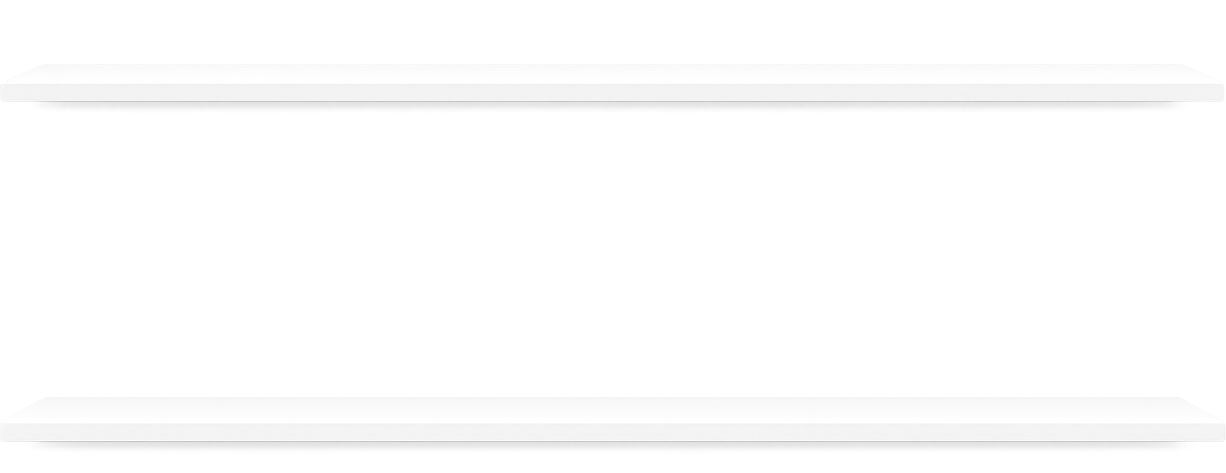
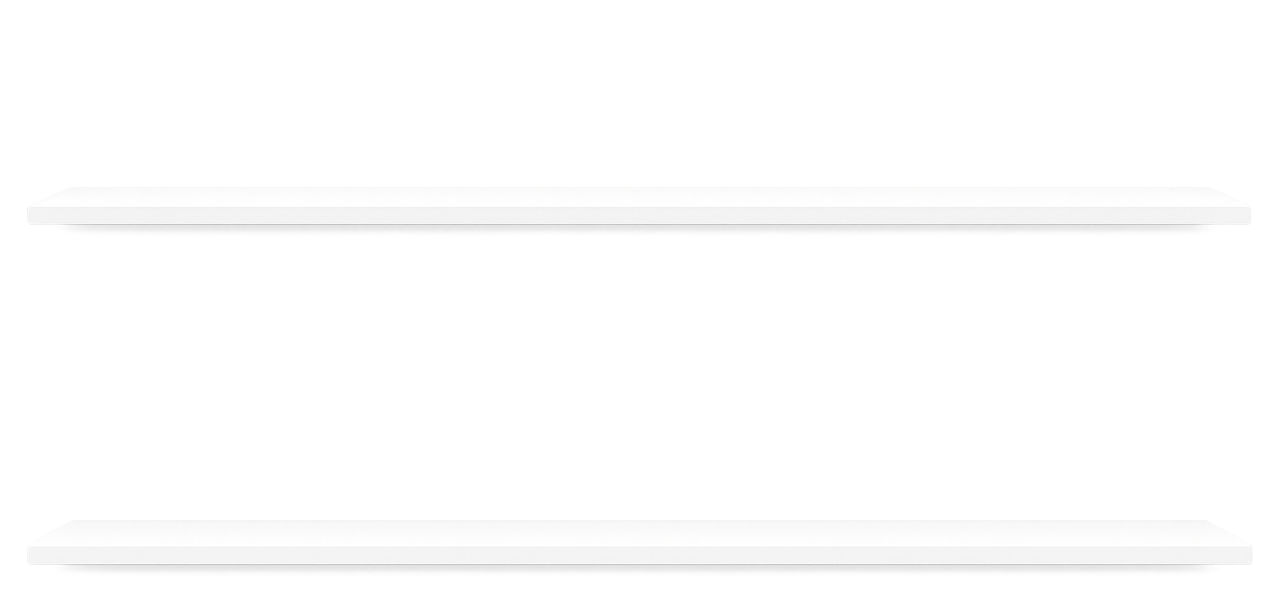
study 진행중

Changed region(s): [[0.062, 0.9471, 0.9299, 0.9767], [0.062, 0.3552, 0.9299, 0.3848], [0.062, 0.2072, 0.9299, 0.2368]]

diff --git a/html/inc/css/common.css b/html/inc/css/common.css
@@ -356,13 +356,19 @@ table col[data-device="pc"]{display:table-column !important;}
 .sel_lv_list{display:flex;align-items:center;justify-content:center;flex-wrap:wrap;gap:30px;}
 .sel_lv_list .btn_lv{padding:10px 30px 20px 30px;border-radius:20px;color:#fff;font-weight:700;font-size:20px;background:#bcbcbc;text-shadow:2px 2px 4px rgba(0, 0, 0, 0.15),0px 0px 1px rgba(255, 255, 255, 0.1);box-shadow:inset 0 -10px 0 #8c8c8c}
 .sel_lv_list .btn_lv.active{background:#ffcd50;box-shadow:inset 0 -10px 0 #f3b10a}
-.book_list{display:flex;flex-wrap:wrap;padding-top:130px;gap:50px 4%;}
+.book_list{display:flex;flex-wrap:wrap;padding:130px 100px 0;gap:7.8vw 4%;}
 .book_list{background-image: url('../../images/study/bg_bookshelf.png');
     background-size: contain;
     background-repeat: no-repeat;
-    text-align: center;background-position:0 200%}
+    text-align: center;background-position:50% 100%}
+
 .book_list li{flex:0 0 calc(16.666% - 5.9%);}
-.book_list .book_num{display:inline-block;padding:8px 20px;background:#4b4b4b;color:#fff;border-radius:0 0 10px 10px}
+.book_list li a{display:block;}
+.book_list.lv li{flex:0 0 calc(25% - 8.2%);}
+.book_list.lv li a{text-align:left;}
+.book_list .sub_num{display:inline-block;margin-bottom:8px;padding:3px 10px;background:#e7e7e7;color:#555;border-radius:30px}
+.book_list .book_lv{display:flex;gap:18px}
+.book_list .book_num{display:inline-block;margin-top:10px;padding:8px 20px;background:#4b4b4b;color:#fff;border-radius:0 0 10px 10px;font-size:15px}
 
 
 .study.ko .study_header h1{background:url('../../images/study/ico_tit_ko.png') no-repeat 0 50% / 38px auto}
@@ -372,17 +378,17 @@ table col[data-device="pc"]{display:table-column !important;}
 .study.cn .sel_lv_list .btn_lv.active{background:#6dc3f7;box-shadow:inset 0 -10px 0 #4ea9e0}
 
 .study_wrap .top{display:flex;gap:40px;}
-        .study_wrap .info_wrap{width:610px;flex:1;padding:40px 35px 20px 35px;flex-shrink:0;border:1px solid #cbcbcb;background:#fff;}
-        .study_wrap .info_wrap .title{display:block;color:#dc2c2c;font-size:40px;font-weight:300}
-        .study_wrap .info_wrap .desc{padding-bottom:30px;margin-top:auto;font-size:15px;line-height:1.4;}
+.study_wrap .info_wrap{width:610px;flex:1;padding:40px 35px 20px 35px;flex-shrink:0;border:1px solid #cbcbcb;background:#fff;}
+.study_wrap .info_wrap .title{display:block;padding-top:30px;margin-top:-15px;color:#dc2c2c;font-size:40px;font-weight:300;background:url('../../images/img_btn_sparkle.png') no-repeat 0 0}
+.study_wrap .info_wrap .desc{padding-bottom:30px;margin-top:auto;font-size:15px;line-height:1.4;}
 
-        .study_wrap .thumb_box{display:flex;gap:25px;}
-        .study_wrap .thumb_box  > div{display:flex;flex-direction: column;}
-        .study_wrap .thumb_box .thumb .txt_box{margin-top:10px;text-align:center}
-        .study_wrap .thumb_box .thumb .txt_box p{display:inline-block;padding:2px 5px;color:#fff;font-size:13px;font-weight:500;background:#333;}
+.study_wrap .thumb_box{display:flex;gap:25px;}
+.study_wrap .thumb_box  > div{display:flex;flex-direction: column;}
+.study_wrap .thumb_box .thumb .txt_box{margin-top:10px;text-align:center}
+.study_wrap .thumb_box .thumb .txt_box p{display:inline-block;padding:2px 5px;color:#fff;font-size:13px;font-weight:500;background:#333;}
 
-        .study_wrap .info_wrap .btn_box{display:flex;gap:20px;padding-top:10px;justify-content:flex-end}
-        .study_wrap .btn_box a{
+.study_wrap .info_wrap .btn_box{display:flex;gap:20px;padding-top:10px;justify-content:flex-end}
+.study_wrap .btn_box a{
         display: inline-block;
   padding: 10px 20px;
   background-color: #b3b3b3;  /* 회색 배경 */
@@ -475,6 +481,8 @@ table col[data-device="pc"]{display:table-column !important;}
   .study_header h1{font-size:30px;}
   .study_header nav ul{gap:20px}
   .study_header nav a{font-size:20px}
+
+  .book_list{padding:120px 0 0}
 
 }
 
@@ -690,14 +698,19 @@ table col[data-device="pc"]{display:table-column !important;}
   .sel_lv_list{gap:20px 15px;}
   .sel_lv_list .btn_lv{padding:5px 15px 10px 15px;border-radius:12px;font-size:11px;text-shadow:2px 2px 4px rgba(0, 0, 0, 0.15), 0px 0px 1px rgba(255, 255, 255, 0.1);box-shadow:inset 0 -5px 0 #8c8c8c}
   .sel_lv_list .btn_lv.active{box-shadow:inset 0 -5px 0 #f3b10a}
-  .book_list{padding-top:40px;gap:24px;}
-  .book_list{background-image: url('../../images/study/bg_bookshelf.png');
+  
+  .book_list{padding:40px 0 0 0;gap:2vw 24px;}
+  .book_list{background-image: url('../../images/study/bg_bookshelf_m.png');
       background-size: contain;
-      background-repeat: no-repeat;
-      text-align: center;background-position:0 200%}
+      background-repeat: repeat-y;
+      text-align: center;background-position:left 50% bottom 25px}
   .book_list li{flex: 0 0 calc(33.333% - 16px);}
-  .book_list .book_num{padding:4px 10px;font-size:12px;border-radius:0 0 5px 5px}
 
+  
+  .book_list.lv li{flex:0 0 calc(50% - 12px);}
+  .book_list .sub_num{margin-bottom:5px;padding:2px 5px;font-size:10px}
+  .book_list .book_lv{gap:5px}
+  .book_list .book_num{padding:4px 10px;border-radius:0 0 5px 5px;font-size:12px}
 
 
   .study_header .inner{position:relative;height:50px;margin-top:0;}
@@ -723,7 +736,7 @@ table col[data-device="pc"]{display:table-column !important;}
     .study_activity #container{padding:50px 0}
     .study_wrap .top{flex-direction:column;gap:20px}    
     .study_wrap .info_wrap{width:100%}
-    .study_wrap .info_wrap .title{font-size:12px}
+    .study_wrap .info_wrap .title{padding-top:20px;margin-top:-10px;font-size:14px;background-size:30px auto}
     .study_wrap .info_wrap .desc{padding-bottom:20px;font-size:10px;}
     .study_wrap .info_wrap .btn_box{gap:10px;padding-top:5px;}
     .study_wrap .thumb_box{gap:15px}

diff --git a/html/book_list.html b/html/book_list.html
@@ -53,12 +53,23 @@
                     <li><a href="#" class="btn_lv">Level 3</a></li>
                 </ul>
                 <ul id="bookList" class="book_list">
-                    <li>
+                    <!--<li>
                         <a href="#">
                             <img src="http://manager.chatterboxkids.net/pages/upload/PreK5.png" class="book">
-                            <p class="book_num">5</p>
                         </a>
+                        <p class="book_num">5</p>
                     </li>
+                    <li>
+                        <div class="book_lv">
+                            <a href="#">
+                                <img src="http://manager.chatterboxkids.net/pages/upload/PreK5.png" class="book" />
+                            </a>
+                            <a href="#">
+                                <img src="http://manager.chatterboxkids.net/pages/upload/PreK5.png" class="book" />
+                            </a>
+                        </div>
+                        <p class="book_num">Book 1</p>
+                    </li>-->
                 </ul>
             </div>
         </div>
@@ -67,23 +78,45 @@
 </div>
 <!--// wrap -->
 <script>
-const bookList = document.getElementById('bookList');
 
-for (let i = 1; i <= 10; i++) {
-    const li = document.createElement('li');
-    li.innerHTML = `
-        <a href="#">
-            <img src="http://manager.chatterboxkids.net/pages/upload/PreK5.png" class="book" />
-            <p class="book_num">${i}</p>
-        </a>
-    `;
-    bookList.appendChild(li);
-}
 
 document.addEventListener('DOMContentLoaded', function() {
     // URL 파라미터 가져오기
     const urlParams = new URLSearchParams(window.location.search);
     const currentType = urlParams.get('lang');
+
+    const bookList = document.getElementById('bookList');
+    if(currentType == '2'){
+        bookList.classList.add('lv');
+        for (let i = 1; i <= 10; i++) {
+            const li = document.createElement('li');
+            li.innerHTML = `
+                <div class="book_lv">
+                    <a href="#">
+                        <span class="sub_num">${i}-1</span>
+                        <img src="http://manager.chatterboxkids.net/pages/upload/PreK5.png" class="book" />
+                    </a>
+                    <a href="#">
+                        <span class="sub_num">${i}-2</span>
+                        <img src="http://manager.chatterboxkids.net/pages/upload/PreK5.png" class="book" />
+                    </a>
+                </div>
+                <p class="book_num">Book ${i}</p>
+            `;
+            bookList.appendChild(li);
+        }
+    }else{  
+        for (let i = 1; i <= 10; i++) {
+            const li = document.createElement('li');
+            li.innerHTML = `<a href="#">
+                    <img src="http://manager.chatterboxkids.net/pages/upload/PreK5.png" class="book">
+                </a>
+                <p class="book_num">${i}</p>
+            `;
+            bookList.appendChild(li);
+        }
+
+    }
 
     // 모든 메뉴 링크에서 active 클래스 제거
     document.querySelectorAll('nav a').forEach(link => {

diff --git a/html/study.html b/html/study.html
@@ -60,12 +60,12 @@
                                 <li><a href="#" class="btn_activicy active">챈트 1</a></li>
                                 <li><a href="#" class="btn_activicy">챈트 1</a></li>
                                 <li><a href="#" class="btn_activicy">챈트 1</a></li>
-                                <li><a href="#" class="btn_activicy">챈트 1</a></li>
-                                <li><a href="#" class="btn_activicy">챈트 1</a></li>
-                                <li><a href="#" class="btn_activicy">챈트 1</a></li>
-                                <li><a href="#" class="btn_activicy">챈트 1</a></li>
-                                <li><a href="#" class="btn_activicy">챈트 1</a></li>
-                                <li><a href="#" class="btn_activicy">챈트 1</a></li>
+                                <li><a href="#" class="btn_activicy">파닉스</a></li>
+                                <li><a href="#" class="btn_activicy">노래 1</a></li>
+                                <li><a href="#" class="btn_activicy">노래 2</a></li>
+                                <li><a href="#" class="btn_activicy">노래 3</a></li>
+                                <li><a href="#" class="btn_activicy">노래 4</a></li>
+                                <li><a href="#" class="btn_activicy">노래 5</a></li>
                             </ul>
                         </div>
                     </div>

diff --git a/html/worklist.html b/html/worklist.html
@@ -156,15 +156,15 @@
                         <tr>
                             <td></td>
                             <td></td>
-                            <td>중국어</td>
+                            <td>한글</td>
                             <td class="path_column"><a href="book_list.html?lang=2" target="_blank">/book_list.html?lang=2</a></td>
                             <td class="status_column"><span class="status_in_progress">진행중</span></td>
-                            <td></td>
+                            <td>레벨탭 화면(교재 2개)<td>
                         </tr>
                         <tr>
                             <td></td>
                             <td></td>
-                            <td>한글</td>
+                            <td>중국어</td>
                             <td class="path_column"><a href="book_list.html?lang=3" target="_blank">/book_list.html?lang=3</a></td>
                             <td class="status_column"><span class="status_in_progress">진행중</span></td>
                             <td></td>
